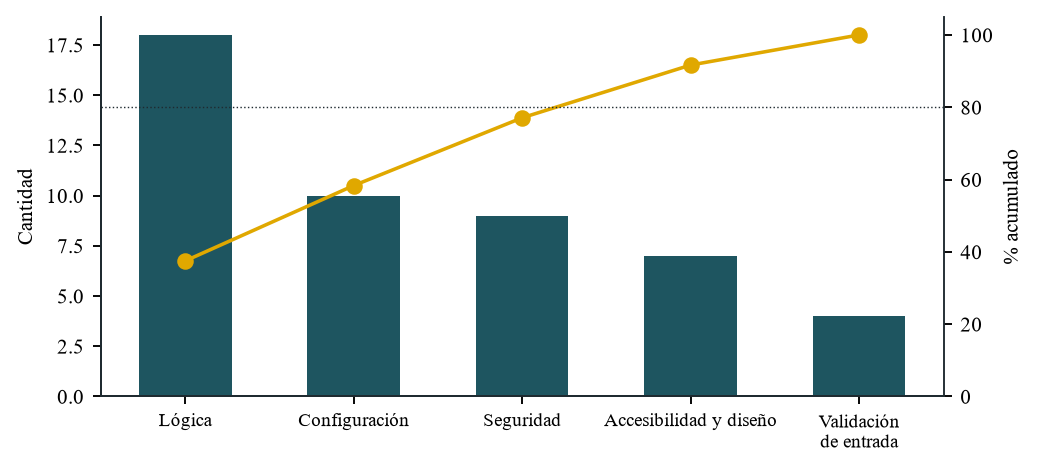
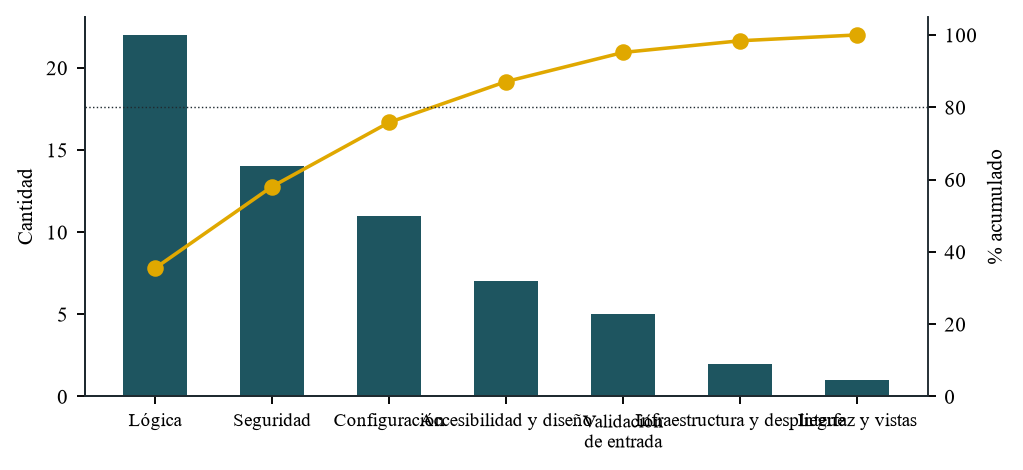
docs: register second audit defects DEF-051 to DEF-062
Move DEF-049 and DEF-050 into qa/datos_calidad.py so regenerating the
quality documents keeps them.

diff --git a/qa/datos_calidad.py b/qa/datos_calidad.py
@@ -233,6 +233,48 @@ DEFECTOS = [
     ('DEF-048', '05-nov-2026', 'Análisis estático con SonarQube (R10)', '16 bugs: promesas sin manejar que perdían errores; un hash SHA-1; una función muerta con pytz; una comparación de NaN consigo mismo',
      'apps/conductor-tablet, static/src/js, controllers/main.py, models/', 'Llamadas «dispara y olvida» sin .catch y código heredado sin revisión estática.',
      'Lógica', 'Cerrado', 'SonarQube: bugs 16 → 0, vulnerabilidades 12 → 0, deuda 107 → 0 min; 512 y 167 pruebas siguen en verde (docs/calidad/16-sonarqube.md)'),
+    ('DEF-049', '05-nov-2026', 'Actualización del módulo en Azure', 'Fallo de serialización concurrente en PostgreSQL al actualizar vistas en producción',
+     'docker-compose.prod.yml (procedimiento)', 'Se ejecutó `odoo -u bus_tracking` con el contenedor de producción en marcha y sus crons escribiendo (`SerializationFailure: concurrent update`).',
+     'Infraestructura y despliegue', 'Cerrado', 'Procedimiento de actualización con parada limpia del servicio web antes de la inicialización de esquemas.'),
+    ('DEF-050', '05-nov-2026', 'Actualización del módulo en Azure', 'Error de validación XML en Odoo por uso de atributo `@string` en selector XPath',
+     'views/bus_fleet_views.xml', 'Odoo 16 prohíbe `@string` en selectores XPath por ser un atributo traducible (`View inheritance may not use attribute \'string\' as a selector`).',
+     'Interfaz y vistas', 'Cerrado', "Selector por elemento de campo hijo `//group[field[@name='driver_id']]` validado por `ir.ui.view._check_xml()`."),
+    ('DEF-051', '17-nov-2026', 'Segunda auditoría integral (X1)', 'XSS guardado en el portal público: el nombre de una parada se inserta como HTML en el tooltip del mapa',
+     'static/src/portal/portal_map.js, static/src/js/stop_picker.js', 'Leaflet trata como HTML el texto de bindTooltip y los nombres de paradas, que pueden venir de un GPX importado, no se escapan.',
+     'Seguridad', 'Abierto', 'Fase 38: prueba de Playwright con una parada llamada <img onerror> en el portal y el editor'),
+    ('DEF-052', '17-nov-2026', 'Segunda auditoría integral (W1)', 'Un SOS guardado sin señal puede desaparecer de la cola de la tableta',
+     'apps/conductor-tablet/src/incidents/queue.ts', 'La cola de incidentes no se serializa: un vaciado en curso guarda su copia antigua y sobrescribe el SOS recién añadido.',
+     'Lógica', 'Abierto', 'Fase 38: incidents/queue.test.ts (push durante un vaciado lento; vaciados concurrentes)'),
+    ('DEF-053', '17-nov-2026', 'Segunda auditoría integral (B1)', 'Las posiciones nunca se purgan en una instalación nueva',
+     'models/bus_position.py, scripts/init-prod.sh', 'El cron usa 0 (conservar todo) si el parámetro no existe y Ajustes sólo guarda los 30 días al pulsar Guardar.',
+     'Configuración', 'Abierto', 'Fase 39: test de purga sin parámetro y migración que fija la retención'),
+    ('DEF-054', '17-nov-2026', 'Segunda auditoría integral (B2)', 'La base de datos de producción no arranca tras un down y up del compose',
+     'docker-compose.prod.yml, .env.prod.example', 'El servicio db está en el perfil local-db, que el ejemplo no activa; el ejemplo apunta a Supabase y los scripts asumen la base local.',
+     'Infraestructura y despliegue', 'Abierto', 'Fase 39: init-prod.sh, down y up -d en una VM Linux limpia'),
+    ('DEF-055', '17-nov-2026', 'Segunda auditoría integral (B4)', 'El panel de Traccar es público y su dominio por defecto publica la IP del servidor',
+     'docker-compose.prod.yml, proxy/Caddyfile', 'Se publicó el panel para la demostración y quedó como valor por defecto del compose.',
+     'Seguridad', 'Abierto', 'Fase 39: el proxy no sirve el panel de Traccar (o sólo a la red de la universidad)'),
+    ('DEF-056', '17-nov-2026', 'Segunda auditoría integral (B3)', 'El login del panel de Odoo no tiene límite de intentos ni segundo factor',
+     'proxy/Caddyfile, despliegue', 'Odoo Community no limita los intentos y el proxy tampoco; quedó como limitación conocida.',
+     'Seguridad', 'Abierto', 'Fase 40: auth_totp obligatorio para managers y fail2ban sobre el log de Odoo'),
+    ('DEF-057', '17-nov-2026', 'Segunda auditoría integral (N1)', 'Tras cada fin de turno se abre una falsa alerta «No signal» con push a los managers',
+     'models/bus_alert.py', 'La regla de sin señal no mira si el bus tiene turno; al cerrarlo Odoo descarta sus posiciones y la última hora queda fija.',
+     'Lógica', 'Abierto', 'Fase 41: test_alerts.py (turno cerrado no abre «No signal»)'),
+    ('DEF-058', '17-nov-2026', 'Segunda auditoría integral (X2)', 'Las posiciones guardadas sin señal se pierden al terminar el turno',
+     'apps/conductor-tablet/src/state/session.ts', 'La tableta cierra el turno en el servidor antes de vaciar la cola GPS, y Odoo descarta posiciones sin turno.',
+     'Lógica', 'Abierto', 'Fase 41: session.test.ts (la cola se vacía antes de endShift)'),
+    ('DEF-059', '17-nov-2026', 'Segunda auditoría integral (W2)', 'Un incidente o SOS guardado sin señal se borra si el turno ya cerró',
+     'controllers/driver_api.py, apps/conductor-tablet/src/state/session.ts', 'El servidor exige turno activo (409 no_shift) y la tableta trata ese rechazo como definitivo.',
+     'Lógica', 'Abierto', 'Fase 41: test_driver_shift.py (incidente dentro del plazo tras el cierre)'),
+    ('DEF-060', '17-nov-2026', 'Segunda auditoría integral (Z1, inferido)', 'Un manager de buses que no es administrador de Odoo no puede crear ni editar choferes',
+     'views/bus_driver_views.xml, security/security.xml', 'El menú Choferes abre res.users, que exige base.group_erp_manager; las pruebas usan admin.',
+     'Seguridad', 'Abierto', 'Fase 43: test_driver_staff.py con un manager que no es administrador'),
+    ('DEF-061', '17-nov-2026', 'Segunda auditoría integral (Y1)', 'Al cambiar de servidor, la tableta envía el token del servidor anterior al nuevo',
+     'apps/conductor-tablet/src/state/session.ts, app/scan.tsx', 'Cambiar la dirección del servidor no borra la sesión guardada.',
+     'Seguridad', 'Abierto', 'Fase 42: session.test.ts (cambio de servidor sin token)'),
+    ('DEF-062', '17-nov-2026', 'Segunda auditoría integral (Y3)', 'La dirección del GPS acepta http y el identificador del bus viajaría sin cifrar',
+     'models/res_config_settings.py, apps/conductor-tablet/src/gps/osmand.ts', 'La validación de Ajustes admite http y la tableta completa con http:// sin comprobar el esquema.',
+     'Validación de entrada', 'Abierto', 'Fase 42: test_driver_shift.py y osmand.test.ts (http externo rechazado)'),
 ]
 
 # Ishikawa 1: why bad input reaches the system (DEF-008 to DEF-010).

diff --git a/qa/generar_docs.py b/qa/generar_docs.py
@@ -169,8 +169,10 @@ n_aud, f_aud = A['total'], A['fallos']
 cerrados = sum(1 for d in dq.DEFECTOS if d[7] == 'Cerrado')
 abiertos_lista = [d for d in dq.DEFECTOS if d[7] != 'Cerrado']
 if abiertos_lista:
-    pendiente = chr(10).join('%d. %s: %s' % (i, d[0], d[3]) for i, d in enumerate(abiertos_lista, start=1))
-    lectura_abiertos = 'Quedan abiertos: %s.' % ', '.join(d[0] for d in abiertos_lista)
+    pendiente = ('Cada defecto abierto tiene su fase en `docs/arquitectura/PLAN-AUDITORIA-2.md` y la prueba que lo cerrará en la sección 2.'
+                 + chr(10) * 2 + chr(10).join('%d. %s: %s' % (i, d[0], d[3]) for i, d in enumerate(abiertos_lista, start=1)))
+    lectura_abiertos = ('Quedan abiertos: %s, de la segunda auditoría (17-nov); de nuevo la lógica y la seguridad dominan, ahora en el despliegue y en la cola de la tableta.'
+                        % ', '.join(d[0] for d in abiertos_lista))
 else:
     pendiente = ('No queda ningún defecto abierto. DEF-013 (una credencial en el historial de git) se cerró al reescribir el historial y rotar la '
                  'contraseña; `gitleaks` corre en el CI (`.github/workflows/ci.yml`) para que no se repita.')
@@ -261,7 +263,7 @@ causa_txt = '\n\n'.join('### %s: %s\n\n- **Causa raíz:** %s\n- **Categoría:** 
 write('05-registro-de-defectos.md', '''
 # Registro de defectos y análisis de causa raíz
 
-Formato del taller de la Unidad 2: bitácora de incidencias y evaluación de la causa raíz. Los defectos DEF-001 a DEF-007 salen de `docs/academico/BITACORA.md` (se hallaron y cerraron al construir); DEF-008 a DEF-010 los halló la evaluación de calidad del 28-oct-2026 y DEF-011 a DEF-026 la auditoría integral del 2-nov-2026 (`docs/arquitectura/PLAN-AUDITORIA.md`, un defecto por hallazgo crítico o alto) y DEF-027 a DEF-034 la auditoría de diseño móvil del mismo día (`docs/arquitectura/PLAN-UI-MOVIL.md`); DEF-035 a DEF-038 salieron de las pruebas en producción y en el celular (4-nov) y DEF-039 a DEF-048 de la etapa que cubre la rúbrica del proyecto final: simulador, métricas, tablero, Grafana, Fleet y SonarQube (`docs/arquitectura/PLAN-RUBRICA.md`, 4 y 5-nov). Generado por `qa/generar_docs.py` desde `qa/datos_calidad.py`.
+Formato del taller de la Unidad 2: bitácora de incidencias y evaluación de la causa raíz. Los defectos DEF-001 a DEF-007 salen de `docs/academico/BITACORA.md` (se hallaron y cerraron al construir); DEF-008 a DEF-010 los halló la evaluación de calidad del 28-oct-2026 y DEF-011 a DEF-026 la auditoría integral del 2-nov-2026 (`docs/arquitectura/PLAN-AUDITORIA.md`, un defecto por hallazgo crítico o alto) y DEF-027 a DEF-034 la auditoría de diseño móvil del mismo día (`docs/arquitectura/PLAN-UI-MOVIL.md`); DEF-035 a DEF-038 salieron de las pruebas en producción y en el celular (4-nov) y DEF-039 a DEF-048 de la etapa que cubre la rúbrica del proyecto final: simulador, métricas, tablero, Grafana, Fleet y SonarQube (`docs/arquitectura/PLAN-RUBRICA.md`, 4 y 5-nov); DEF-049 y DEF-050 de la actualización en Azure con Fleet (5-nov) y DEF-051 a DEF-062 de la segunda auditoría integral del 17-nov-2026 (`docs/arquitectura/PLAN-AUDITORIA-2.md`, un defecto por hallazgo crítico o medio que es un fallo; su corrección está planificada en las fases 38 a 43). Generado por `qa/generar_docs.py` desde `qa/datos_calidad.py`.
 
 Cada defecto se registra con tres campos separados: fallo observado, defecto localizado y causa de origen.
 

diff --git a/docs/calidad/05-registro-de-defectos.md b/docs/calidad/05-registro-de-defectos.md
@@ -1,6 +1,6 @@
 # Registro de defectos y análisis de causa raíz
 
-Formato del taller de la Unidad 2: bitácora de incidencias y evaluación de la causa raíz. Los defectos DEF-001 a DEF-007 salen de `docs/academico/BITACORA.md` (se hallaron y cerraron al construir); DEF-008 a DEF-010 los halló la evaluación de calidad del 28-oct-2026 y DEF-011 a DEF-026 la auditoría integral del 2-nov-2026 (`docs/arquitectura/PLAN-AUDITORIA.md`, un defecto por hallazgo crítico o alto) y DEF-027 a DEF-034 la auditoría de diseño móvil del mismo día (`docs/arquitectura/PLAN-UI-MOVIL.md`); DEF-035 a DEF-038 salieron de las pruebas en producción y en el celular (4-nov) y DEF-039 a DEF-048 de la etapa que cubre la rúbrica del proyecto final: simulador, métricas, tablero, Grafana, Fleet y SonarQube (`docs/arquitectura/PLAN-RUBRICA.md`, 4 y 5-nov). Generado por `qa/generar_docs.py` desde `qa/datos_calidad.py`.
+Formato del taller de la Unidad 2: bitácora de incidencias y evaluación de la causa raíz. Los defectos DEF-001 a DEF-007 salen de `docs/academico/BITACORA.md` (se hallaron y cerraron al construir); DEF-008 a DEF-010 los halló la evaluación de calidad del 28-oct-2026 y DEF-011 a DEF-026 la auditoría integral del 2-nov-2026 (`docs/arquitectura/PLAN-AUDITORIA.md`, un defecto por hallazgo crítico o alto) y DEF-027 a DEF-034 la auditoría de diseño móvil del mismo día (`docs/arquitectura/PLAN-UI-MOVIL.md`); DEF-035 a DEF-038 salieron de las pruebas en producción y en el celular (4-nov) y DEF-039 a DEF-048 de la etapa que cubre la rúbrica del proyecto final: simulador, métricas, tablero, Grafana, Fleet y SonarQube (`docs/arquitectura/PLAN-RUBRICA.md`, 4 y 5-nov); DEF-049 y DEF-050 de la actualización en Azure con Fleet (5-nov) y DEF-051 a DEF-062 de la segunda auditoría integral del 17-nov-2026 (`docs/arquitectura/PLAN-AUDITORIA-2.md`, un defecto por hallazgo crítico o medio que es un fallo; su corrección está planificada en las fases 38 a 43). Generado por `qa/generar_docs.py` desde `qa/datos_calidad.py`.
 
 Cada defecto se registra con tres campos separados: fallo observado, defecto localizado y causa de origen.
 
@@ -56,8 +56,22 @@ Cada defecto se registra con tres campos separados: fallo observado, defecto loc
 | DEF-046 | 04-nov-2026 | Prueba de Grafana en el navegador (R7) | Con un token de 5 minutos, Grafana se quedaba sin datos al vencer | models/bus_grafana.py, static/src/js/grafana.js | Cerrado |
 | DEF-047 | 04-nov-2026 | Pruebas de la integración con Fleet (R8) | Los gestores de buses no veían los vehículos de Fleet | security/security.xml | Cerrado |
 | DEF-048 | 05-nov-2026 | Análisis estático con SonarQube (R10) | 16 bugs: promesas sin manejar que perdían errores; un hash SHA-1; una función muerta con pytz; una comparación de NaN consigo mismo | apps/conductor-tablet, static/src/js, controllers/main.py, models/ | Cerrado |
+| DEF-049 | 05-nov-2026 | Actualización del módulo en Azure | Fallo de serialización concurrente en PostgreSQL al actualizar vistas en producción | docker-compose.prod.yml (procedimiento) | Cerrado |
+| DEF-050 | 05-nov-2026 | Actualización del módulo en Azure | Error de validación XML en Odoo por uso de atributo `@string` en selector XPath | views/bus_fleet_views.xml | Cerrado |
+| DEF-051 | 17-nov-2026 | Segunda auditoría integral (X1) | XSS guardado en el portal público: el nombre de una parada se inserta como HTML en el tooltip del mapa | static/src/portal/portal_map.js, static/src/js/stop_picker.js | Abierto |
+| DEF-052 | 17-nov-2026 | Segunda auditoría integral (W1) | Un SOS guardado sin señal puede desaparecer de la cola de la tableta | apps/conductor-tablet/src/incidents/queue.ts | Abierto |
+| DEF-053 | 17-nov-2026 | Segunda auditoría integral (B1) | Las posiciones nunca se purgan en una instalación nueva | models/bus_position.py, scripts/init-prod.sh | Abierto |
+| DEF-054 | 17-nov-2026 | Segunda auditoría integral (B2) | La base de datos de producción no arranca tras un down y up del compose | docker-compose.prod.yml, .env.prod.example | Abierto |
+| DEF-055 | 17-nov-2026 | Segunda auditoría integral (B4) | El panel de Traccar es público y su dominio por defecto publica la IP del servidor | docker-compose.prod.yml, proxy/Caddyfile | Abierto |
+| DEF-056 | 17-nov-2026 | Segunda auditoría integral (B3) | El login del panel de Odoo no tiene límite de intentos ni segundo factor | proxy/Caddyfile, despliegue | Abierto |
+| DEF-057 | 17-nov-2026 | Segunda auditoría integral (N1) | Tras cada fin de turno se abre una falsa alerta «No signal» con push a los managers | models/bus_alert.py | Abierto |
+| DEF-058 | 17-nov-2026 | Segunda auditoría integral (X2) | Las posiciones guardadas sin señal se pierden al terminar el turno | apps/conductor-tablet/src/state/session.ts | Abierto |
+| DEF-059 | 17-nov-2026 | Segunda auditoría integral (W2) | Un incidente o SOS guardado sin señal se borra si el turno ya cerró | controllers/driver_api.py, apps/conductor-tablet/src/state/session.ts | Abierto |
+| DEF-060 | 17-nov-2026 | Segunda auditoría integral (Z1, inferido) | Un manager de buses que no es administrador de Odoo no puede crear ni editar choferes | views/bus_driver_views.xml, security/security.xml | Abierto |
+| DEF-061 | 17-nov-2026 | Segunda auditoría integral (Y1) | Al cambiar de servidor, la tableta envía el token del servidor anterior al nuevo | apps/conductor-tablet/src/state/session.ts, app/scan.tsx | Abierto |
+| DEF-062 | 17-nov-2026 | Segunda auditoría integral (Y3) | La dirección del GPS acepta http y el identificador del bus viajaría sin cifrar | models/res_config_settings.py, apps/conductor-tablet/src/gps/osmand.ts | Abierto |
 
-Resumen: 48 registrados, 48 cerrados (100 %), 0 abiertos. Densidad: 9,5 defectos por KLOC (5,033 KLOC de Python sin pruebas).
+Resumen: 62 registrados, 50 cerrados (81 %), 12 abiertos. Densidad: 12,3 defectos por KLOC (5,033 KLOC de Python sin pruebas).
 
 ## 2. Análisis de causa raíz e impacto
 
@@ -351,16 +365,101 @@ Resumen: 48 registrados, 48 cerrados (100 %), 0 abiertos. Densidad: 9,5 defectos
 
 ### DEF-049: Fallo de serialización concurrente en PostgreSQL al actualizar vistas en producción
 
-- **Causa raíz:** Ejecución de `odoo -u bus_tracking` con el contenedor de producción en marcha ejecutando tareas cron en segundo plano (`SerializationFailure: concurrent update`).
+- **Causa raíz:** Se ejecutó `odoo -u bus_tracking` con el contenedor de producción en marcha y sus crons escribiendo (`SerializationFailure: concurrent update`).
 - **Categoría:** Infraestructura y despliegue
 - **Prueba que lo protege:** Procedimiento de actualización con parada limpia del servicio web antes de la inicialización de esquemas.
 
 ### DEF-050: Error de validación XML en Odoo por uso de atributo `@string` en selector XPath
 
-- **Causa raíz:** Odoo 16 prohíbe el uso de `@string` en selectores XPath por ser un atributo traducible sujeto a localización (`View inheritance may not use attribute 'string' as a selector`).
+- **Causa raíz:** Odoo 16 prohíbe `@string` en selectores XPath por ser un atributo traducible (`View inheritance may not use attribute 'string' as a selector`).
 - **Categoría:** Interfaz y vistas
 - **Prueba que lo protege:** Selector por elemento de campo hijo `//group[field[@name='driver_id']]` validado por `ir.ui.view._check_xml()`.
 
+### DEF-051: XSS guardado en el portal público: el nombre de una parada se inserta como HTML en el tooltip del mapa
+
+- **Causa raíz:** Leaflet trata como HTML el texto de bindTooltip y los nombres de paradas, que pueden venir de un GPX importado, no se escapan.
+- **Categoría:** Seguridad
+- **Prueba que lo protege:** Fase 38: prueba de Playwright con una parada llamada <img onerror> en el portal y el editor
+
+### DEF-052: Un SOS guardado sin señal puede desaparecer de la cola de la tableta
+
+- **Causa raíz:** La cola de incidentes no se serializa: un vaciado en curso guarda su copia antigua y sobrescribe el SOS recién añadido.
+- **Categoría:** Lógica
+- **Prueba que lo protege:** Fase 38: incidents/queue.test.ts (push durante un vaciado lento; vaciados concurrentes)
+
+### DEF-053: Las posiciones nunca se purgan en una instalación nueva
+
+- **Causa raíz:** El cron usa 0 (conservar todo) si el parámetro no existe y Ajustes sólo guarda los 30 días al pulsar Guardar.
+- **Categoría:** Configuración
+- **Prueba que lo protege:** Fase 39: test de purga sin parámetro y migración que fija la retención
+
+### DEF-054: La base de datos de producción no arranca tras un down y up del compose
+
+- **Causa raíz:** El servicio db está en el perfil local-db, que el ejemplo no activa; el ejemplo apunta a Supabase y los scripts asumen la base local.
+- **Categoría:** Infraestructura y despliegue
+- **Prueba que lo protege:** Fase 39: init-prod.sh, down y up -d en una VM Linux limpia
+
+### DEF-055: El panel de Traccar es público y su dominio por defecto publica la IP del servidor
+
+- **Causa raíz:** Se publicó el panel para la demostración y quedó como valor por defecto del compose.
+- **Categoría:** Seguridad
+- **Prueba que lo protege:** Fase 39: el proxy no sirve el panel de Traccar (o sólo a la red de la universidad)
+
+### DEF-056: El login del panel de Odoo no tiene límite de intentos ni segundo factor
+
+- **Causa raíz:** Odoo Community no limita los intentos y el proxy tampoco; quedó como limitación conocida.
+- **Categoría:** Seguridad
+- **Prueba que lo protege:** Fase 40: auth_totp obligatorio para managers y fail2ban sobre el log de Odoo
+
+### DEF-057: Tras cada fin de turno se abre una falsa alerta «No signal» con push a los managers
+
+- **Causa raíz:** La regla de sin señal no mira si el bus tiene turno; al cerrarlo Odoo descarta sus posiciones y la última hora queda fija.
+- **Categoría:** Lógica
+- **Prueba que lo protege:** Fase 41: test_alerts.py (turno cerrado no abre «No signal»)
+
+### DEF-058: Las posiciones guardadas sin señal se pierden al terminar el turno
+
+- **Causa raíz:** La tableta cierra el turno en el servidor antes de vaciar la cola GPS, y Odoo descarta posiciones sin turno.
+- **Categoría:** Lógica
+- **Prueba que lo protege:** Fase 41: session.test.ts (la cola se vacía antes de endShift)
+
+### DEF-059: Un incidente o SOS guardado sin señal se borra si el turno ya cerró
+
+- **Causa raíz:** El servidor exige turno activo (409 no_shift) y la tableta trata ese rechazo como definitivo.
+- **Categoría:** Lógica
+- **Prueba que lo protege:** Fase 41: test_driver_shift.py (incidente dentro del plazo tras el cierre)
+
+### DEF-060: Un manager de buses que no es administrador de Odoo no puede crear ni editar choferes
+
+- **Causa raíz:** El menú Choferes abre res.users, que exige base.group_erp_manager; las pruebas usan admin.
+- **Categoría:** Seguridad
+- **Prueba que lo protege:** Fase 43: test_driver_staff.py con un manager que no es administrador
+
+### DEF-061: Al cambiar de servidor, la tableta envía el token del servidor anterior al nuevo
+
+- **Causa raíz:** Cambiar la dirección del servidor no borra la sesión guardada.
+- **Categoría:** Seguridad
+- **Prueba que lo protege:** Fase 42: session.test.ts (cambio de servidor sin token)
+
+### DEF-062: La dirección del GPS acepta http y el identificador del bus viajaría sin cifrar
+
+- **Causa raíz:** La validación de Ajustes admite http y la tableta completa con http:// sin comprobar el esquema.
+- **Categoría:** Validación de entrada
+- **Prueba que lo protege:** Fase 42: test_driver_shift.py y osmand.test.ts (http externo rechazado)
+
 ## 3. Qué falta para cerrar los abiertos
 
-No queda ningún defecto abierto. DEF-013 (una credencial en el historial de git) se cerró al reescribir el historial y rotar la contraseña; `gitleaks` corre en el CI (`.github/workflows/ci.yml`) para que no se repita.
+Cada defecto abierto tiene su fase en `docs/arquitectura/PLAN-AUDITORIA-2.md` y la prueba que lo cerrará en la sección 2.
+
+1. DEF-051: XSS guardado en el portal público: el nombre de una parada se inserta como HTML en el tooltip del mapa
+2. DEF-052: Un SOS guardado sin señal puede desaparecer de la cola de la tableta
+3. DEF-053: Las posiciones nunca se purgan en una instalación nueva
+4. DEF-054: La base de datos de producción no arranca tras un down y up del compose
+5. DEF-055: El panel de Traccar es público y su dominio por defecto publica la IP del servidor
+6. DEF-056: El login del panel de Odoo no tiene límite de intentos ni segundo factor
+7. DEF-057: Tras cada fin de turno se abre una falsa alerta «No signal» con push a los managers
+8. DEF-058: Las posiciones guardadas sin señal se pierden al terminar el turno
+9. DEF-059: Un incidente o SOS guardado sin señal se borra si el turno ya cerró
+10. DEF-060: Un manager de buses que no es administrador de Odoo no puede crear ni editar choferes
+11. DEF-061: Al cambiar de servidor, la tableta envía el token del servidor anterior al nuevo
+12. DEF-062: La dirección del GPS acepta http y el identificador del bus viajaría sin cifrar

diff --git a/docs/calidad/07-pareto.md b/docs/calidad/07-pareto.md
@@ -22,13 +22,15 @@ Fallos de la suite en vivo (3) y de la auditoría aleatoria (57), por causa. Las
 
 | Categoría | Defectos | % | % acumulado |
 |---|---|---|---|
-| Lógica | 18 | 37,5 % | 37,5 % |
-| Configuración | 10 | 20,8 % | 58,3 % |
-| Seguridad | 9 | 18,8 % | 77,1 % |
-| Accesibilidad y diseño | 7 | 14,6 % | 91,7 % |
-| Validación de entrada | 4 | 8,3 % | 100,0 % |
+| Lógica | 22 | 35,5 % | 35,5 % |
+| Seguridad | 14 | 22,6 % | 58,1 % |
+| Configuración | 11 | 17,7 % | 75,8 % |
+| Accesibilidad y diseño | 7 | 11,3 % | 87,1 % |
+| Validación de entrada | 5 | 8,1 % | 95,2 % |
+| Infraestructura y despliegue | 2 | 3,2 % | 98,4 % |
+| Interfaz y vistas | 1 | 1,6 % | 100,0 % |
 
-**Lectura:** con la auditoría del 2-nov la lógica y la seguridad pasan a encabezar: los defectos ya no están en la entrada de datos sino en reglas que se cumplían sólo en un lado (la vista y no el método, la tableta y no el servidor). No queda ningún defecto abierto.
+**Lectura:** con la auditoría del 2-nov la lógica y la seguridad pasan a encabezar: los defectos ya no están en la entrada de datos sino en reglas que se cumplían sólo en un lado (la vista y no el método, la tableta y no el servidor). Quedan abiertos: DEF-051, DEF-052, DEF-053, DEF-054, DEF-055, DEF-056, DEF-057, DEF-058, DEF-059, DEF-060, DEF-061, DEF-062, de la segunda auditoría (17-nov); de nuevo la lógica y la seguridad dominan, ahora en el despliegue y en la cola de la tableta.
 
 ## 3. Problemas encontrados durante la construcción (57)
 

diff --git a/docs/calidad/04-resultados-y-metricas.md b/docs/calidad/04-resultados-y-metricas.md
@@ -15,11 +15,11 @@ Generado por `qa/generar_docs.py` con los datos de la ejecución del 5-nov-2026.
 | Capacidad de ingesta (100 buses, un reporte cada 10 s) | ≥ 10 req/s | 37,1 req/s | Sí |
 | Cobertura de código (sentencias y ramas) | ≥ 80 % | 95,9 % | Sí |
 | Cobertura de rutas HTTP | 100 % | 100,0 % | Sí |
-| Defectos cerrados | ≥ 90 % | 100,0 % | Sí |
+| Defectos cerrados | ≥ 90 % | 80,6 % | **No** |
 | Posiciones con datos imposibles | 0 | 0 | Sí |
 | Integridad concurrente (P6: 20 envíos iguales) | 1 guardada | 1 guardada | Sí |
 
-Se cumplen todas las metas.
+No se cumplen: Defectos cerrados.
 
 ## 2. Resultados por conjunto
 
